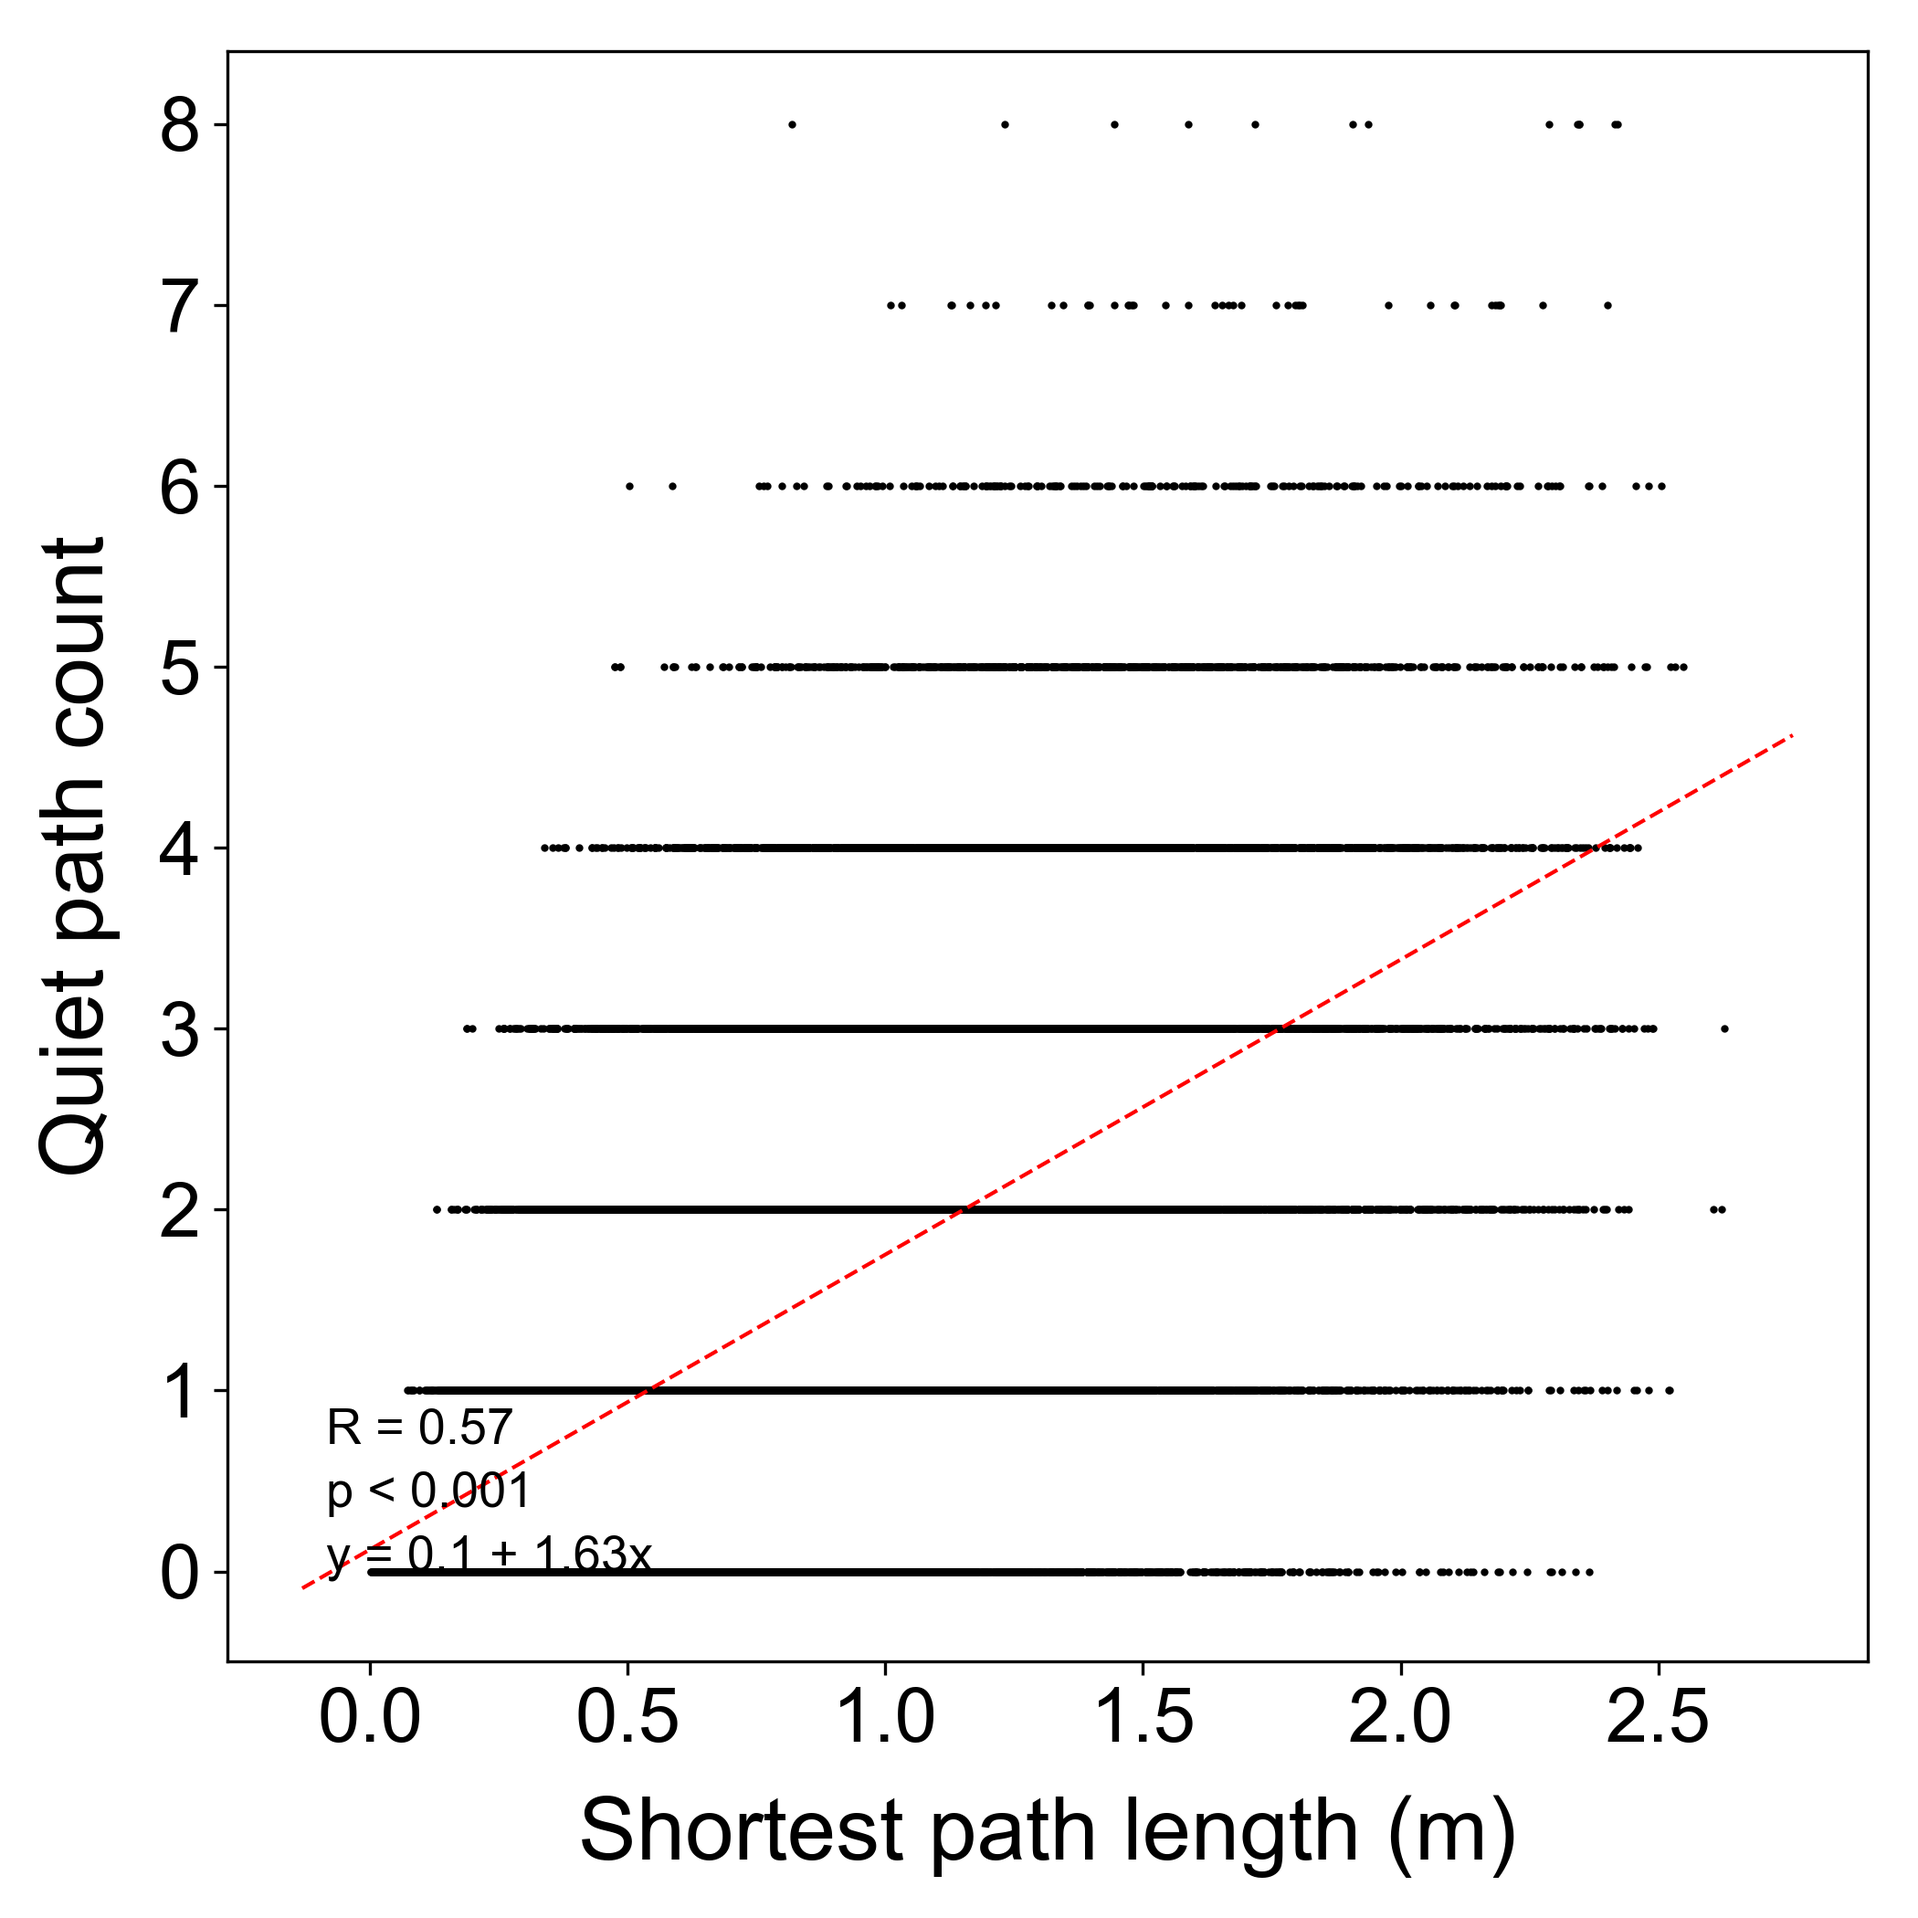
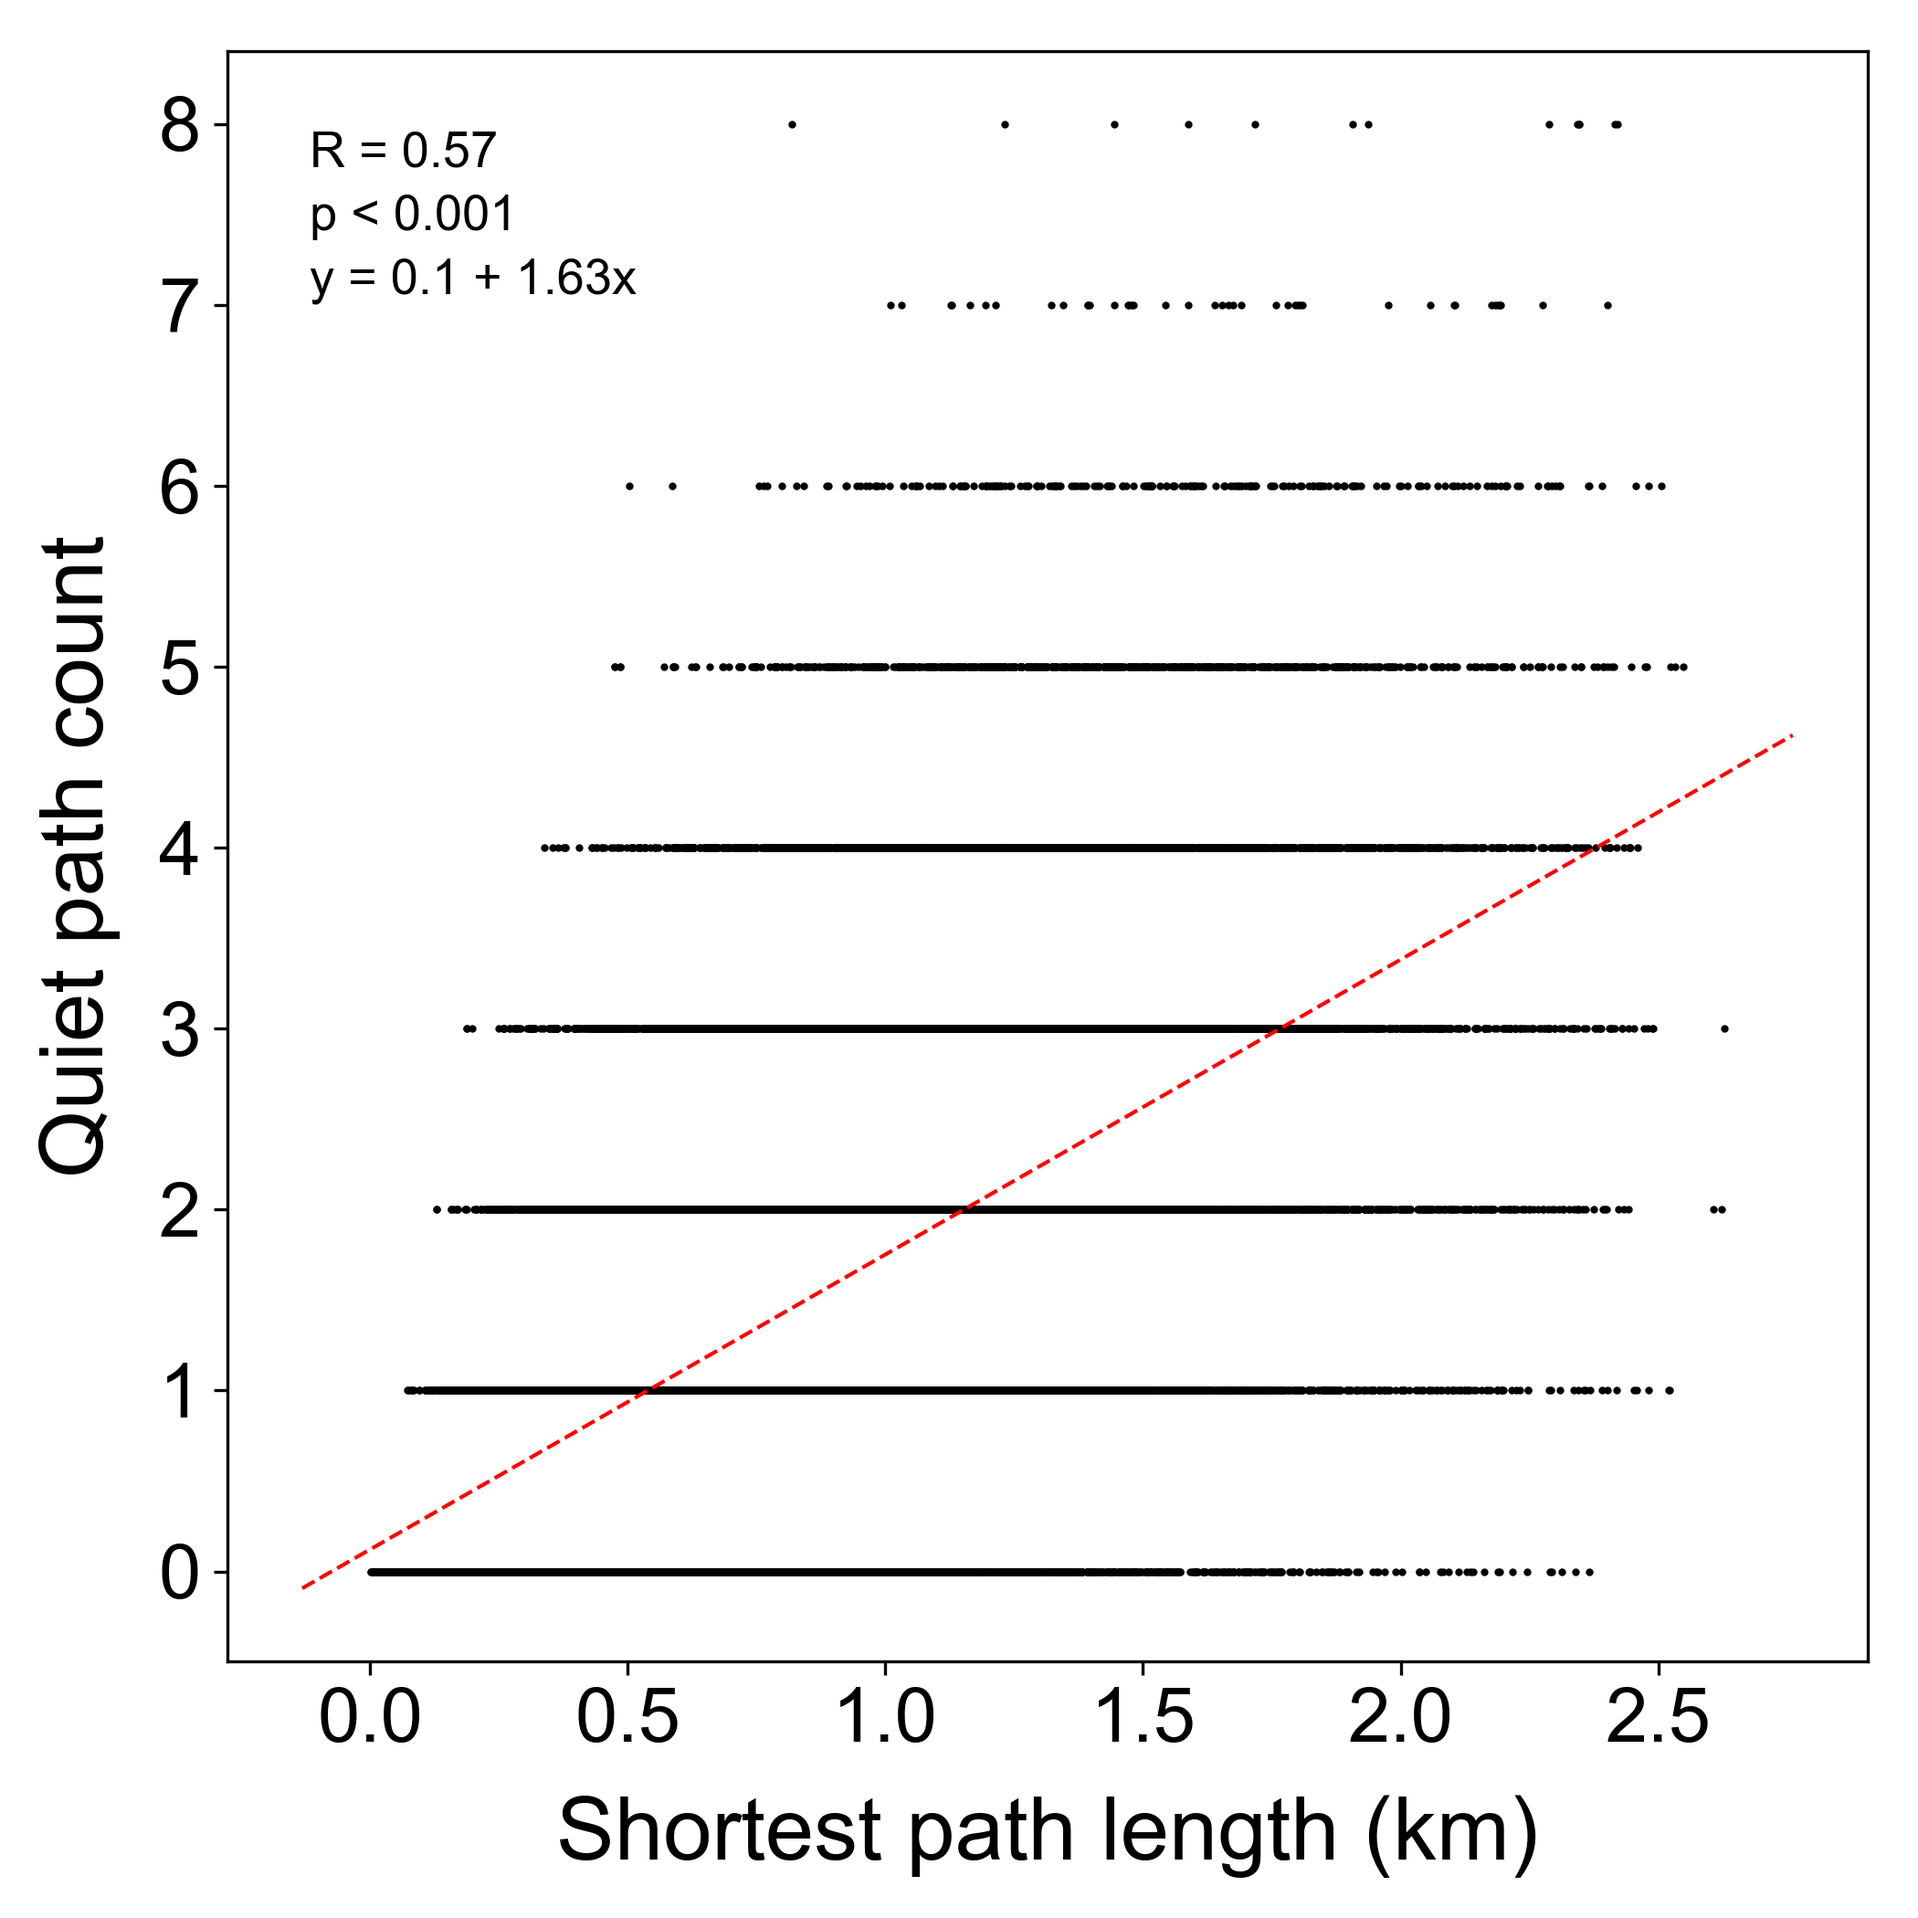
Adjust plot: quiet path count by shortest path length

diff --git a/src/utils/plots.py b/src/utils/plots.py
@@ -86,7 +86,7 @@ def abline(x_vals, slope, intercept, color='green'):
     y_vals = intercept + slope * x_vals
     plt.plot(x_vals, y_vals, color=color, linewidth=1, linestyle='dashed')
 
-def scatterplot(data_df, xcol=None, ycol=None, linreg=False, yrange=None, ylims=None, yignore=None, yvaluemap=None, point_s=3, line=None, xlabel=None, ylabel=None, title=None, large_text=False):
+def scatterplot(data_df, xcol=None, ycol=None, linreg='', yrange=None, ylims=None, yignore=None, yvaluemap=None, point_s=3, line=None, xlabel=None, ylabel=None, title=None, large_text=False):
     # filter out null values (e.g. -9999)
     if (yignore is not None):
         # df = data_df.query(f'''{ycol} != {yignore}''')
@@ -126,13 +126,14 @@ def scatterplot(data_df, xcol=None, ycol=None, linreg=False, yrange=None, ylims=
         if p_value < 0.1: return 'p < 0.1'
         return 'p = '+ str(round(p_value, 2))
 
-    if (linreg == True):
+    if (linreg is not ''):
         slope, intercept, r_value, p_value, std_err = stats.linregress(xvals, yvals)
         print('slope:', slope, 'intercept:', intercept, 'r_value:', r_value, 'p_value:', p_value, 'std_err:', std_err)
         abline(x_vals, slope, intercept, color='red')
         func_string = 'y = '+ str(round(intercept,1)) + ' + '+ str(round(slope, 2)) +'x'
-        ax.text(0.06, 0.05, 'R = '+ str(round(r_value, 2)) +'\n'+ get_p_string(p_value)+ '\n'+ func_string,
-                verticalalignment='bottom', horizontalalignment='left',
+        position = (0.05, 0.95, 'top') if linreg == 'topleft' else (0.06, 0.05, 'bottom')
+        ax.text(position[0], position[1], 'R = '+ str(round(r_value, 2)) +'\n'+ get_p_string(p_value)+ '\n'+ func_string,
+                verticalalignment=position[2], horizontalalignment='left',
                 transform=ax.transAxes,
                 color='black', fontsize=13, linespacing=1.5)
     

diff --git a/src/scripts_analysis/quiet_path_stats.py b/src/scripts_analysis/quiet_path_stats.py
@@ -116,7 +116,7 @@ od_stats_p0_3000m = od_stats_df[(od_stats_df['length'] < 3000)]
 od_stats_mdB_60_70 = od_stats_df[(od_stats_df['mdB'] > 60) & (od_stats_df['mdB'] < 70) & (od_stats_df['length'] < 3000)]
 
 #%% qp counts regression
-fig = plots.scatterplot(od_stats_p0_3000m, 'length_km', 'count_qp', linreg=True, xlabel='Shortest path length (km)', ylabel='Quiet path count',  large_text=True, yvaluemap=(-9999, 0), point_s=1)
+fig = plots.scatterplot(od_stats_p0_3000m, 'length_km', 'count_qp', linreg='topleft', xlabel='Shortest path length (km)', ylabel='Quiet path count',  large_text=True, yvaluemap=(-9999, 0), point_s=1)
 fig.savefig('plots/quiet_path_plots/len-qp_count_linreg.png', format='png', dpi=300)
 
 #%% OD distance - mdB diff qp 200
